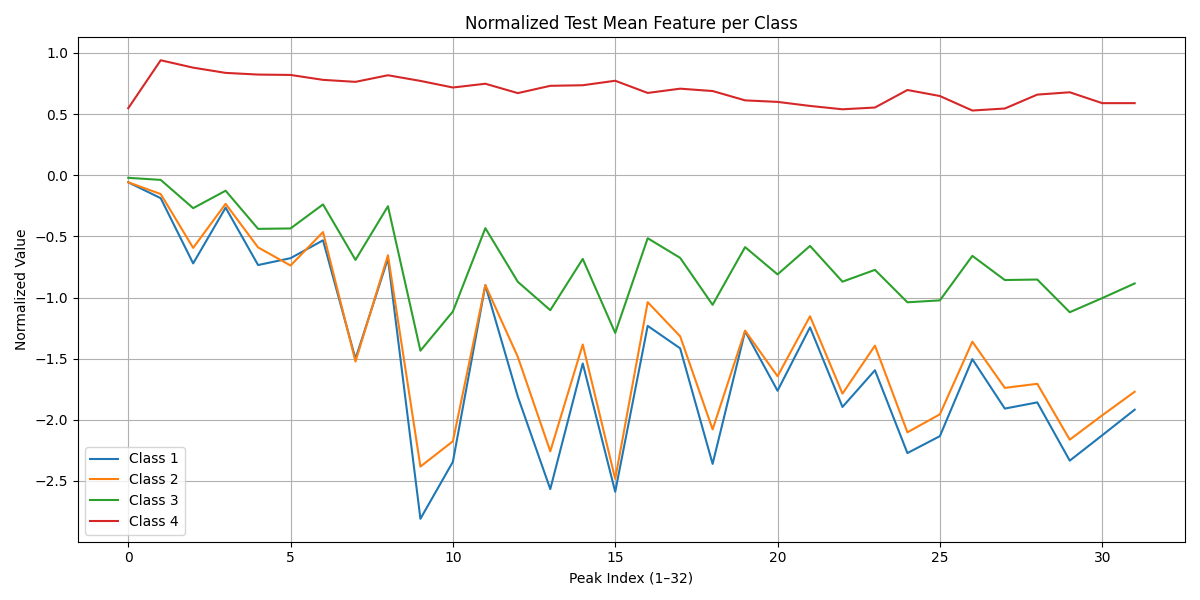
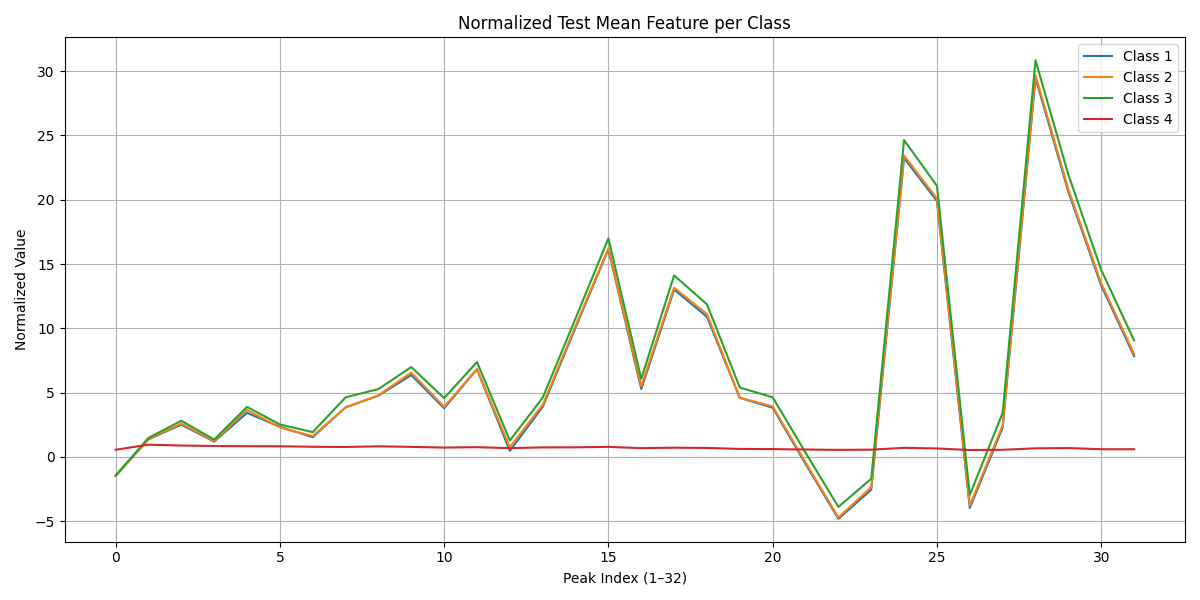
import statistics in test from training set

diff --git a/test.py b/test.py
@@ -8,7 +8,7 @@ from utils.config import *
 
 # Load and preprocess test data
 # stats_source = "compute" or "json"
-X_test, y_test, label_encoder = load_and_preprocess_test_data(file_path=test_file_path, fraction=1, stats_source="compute", stats_path=stats_path)
+X_test, y_test, label_encoder = load_and_preprocess_test_data(file_path=test_file_path, fraction=1, stats_source="json", stats_path=stats_path)
 
 plot_normalized_test_mean_feature_per_class(
     X_df=X_test,
